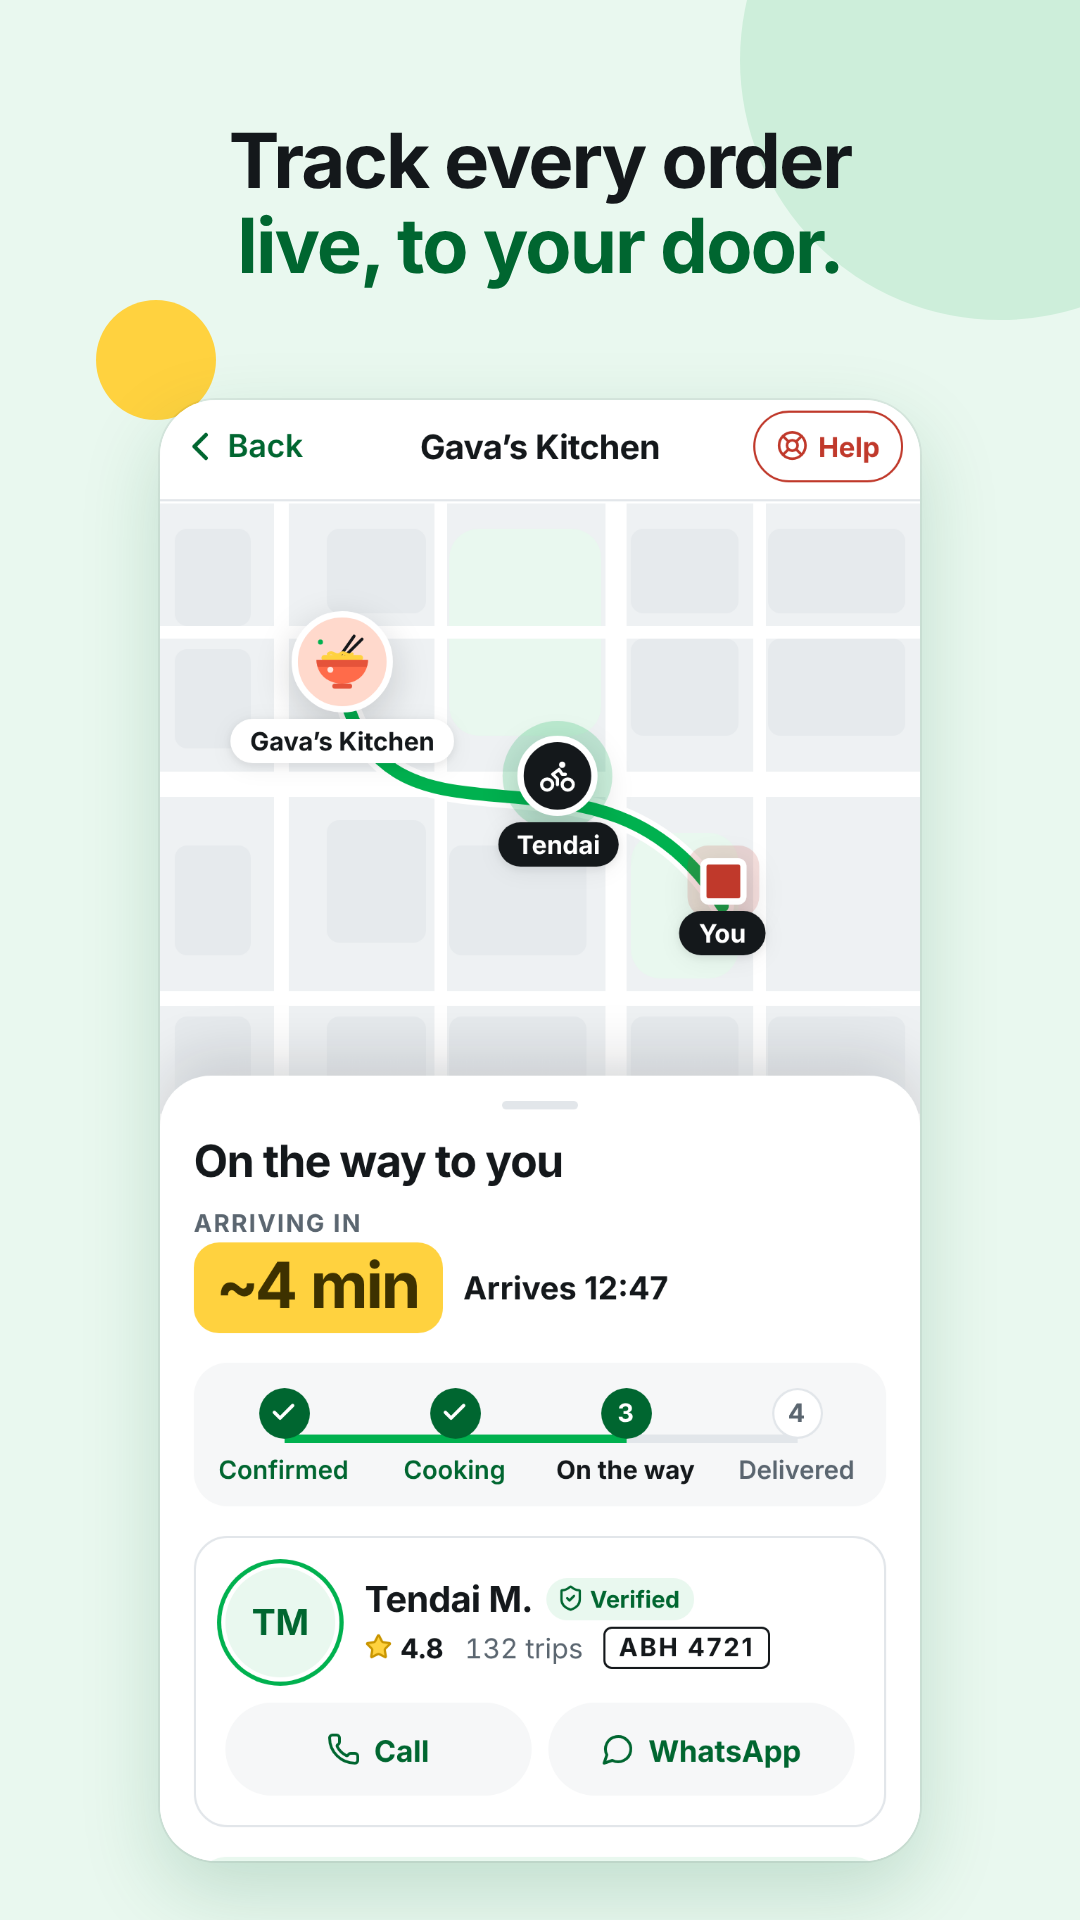
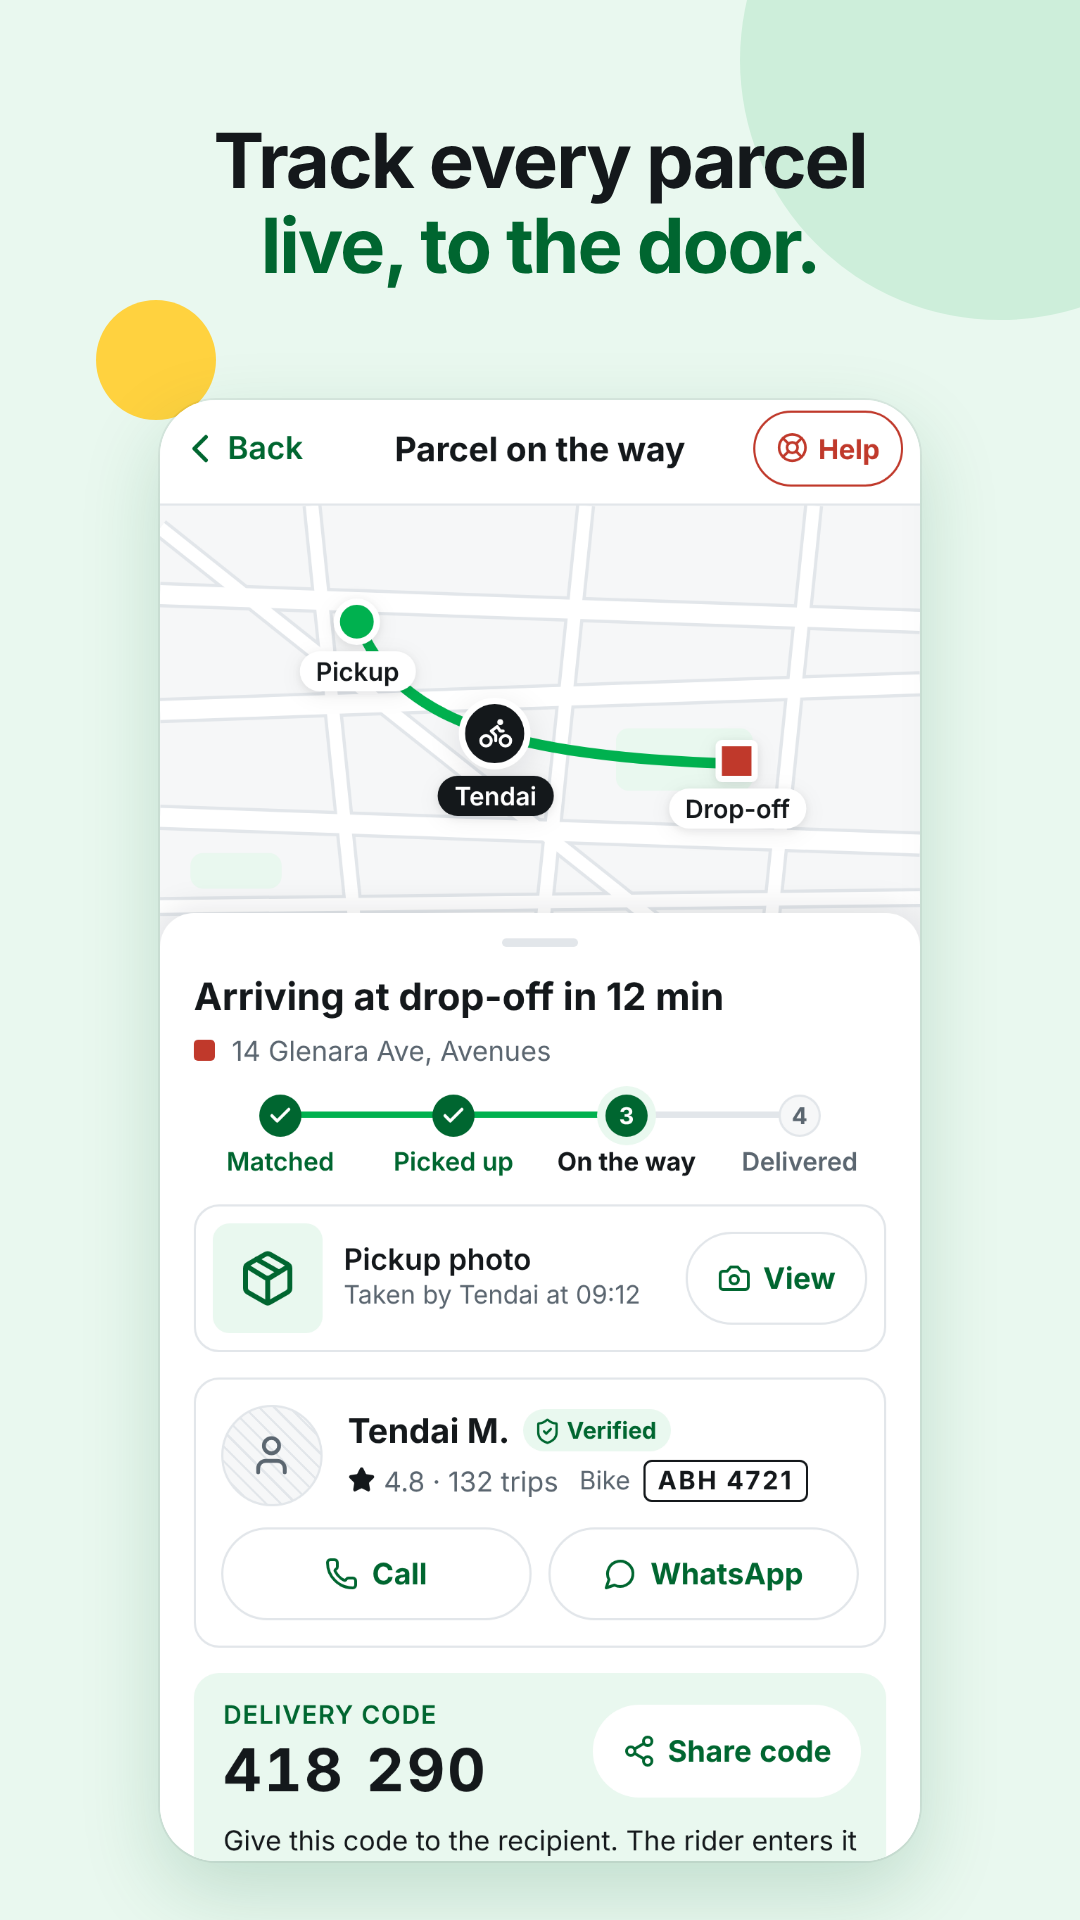
store-assets: shot 3 shows parcel tracking instead of a restaurant order
Parcels are a lead product, so "Track every parcel live, to the door."
now uses After Send v2 state 7 (Picked up, to drop-off): the rider on the
map, the four delivery steps and the 6-digit delivery code. The handoff's
hatched "photo" placeholder is drawn as a package mark. The render script
now scrolls a frame into view before editing it, since After Send renders
frame contents lazily.

Claude-Session: https://claude.ai/code/session_01XdnXGg391LFsh27Z9xqEta

diff --git a/store-assets/google-play/README.md b/store-assets/google-play/README.md
@@ -32,19 +32,20 @@ Regenerate from `../../explorations/store/Play Export Lab.html` (renders every s
 |------|------|---------|------------------------|
 | 1 | `phone-screenshots/01-home.png` | Food, shops and parcels. **One app.** | Home H1 — `calm-mint-v2-2026-10` |
 | 2 | `phone-screenshots/02-order-food.png` | Order from restaurants **in a few taps.** | Menu with cart S5 — `browse-v2` |
-| 3 | `phone-screenshots/03-track-live.png` | Track every order **live, to your door.** | On the way T9 — `order-flow-v2` (v2.1) |
+| 3 | `phone-screenshots/03-track-live.png` | Track every parcel **live, to the door.** | Picked up, to drop-off (state 7) — `after-send-v2` |
 | 4 | `phone-screenshots/04-send-parcel.png` | Send a parcel. **Name your price.** | Step 3 Price — `send-compose-v2` |
 
 1080 × 1920, opaque RGB PNG, 175–620 KB each. Regenerate with
 `node store-assets/google-play/render-shots.mjs` (Playwright + Chromium): it captures each frame at 3×
 from the handoff, crops the status bar, and places it under the caption on the mint (`#E9F8EF`) backdrop.
-Home drops the design-review "NEEDS BACKEND" tag and shows the shipped tile label "Food" (ledger D-65).
+Home drops the design-review "NEEDS BACKEND" tag and shows the shipped tile label "Food" (ledger D-65);
+the parcel-tracking shot shows a package mark where the handoff draws a hatched "photo" placeholder.
 Four shots at 1080 × 1920 keeps large-format promotion eligibility.
 
 Suggested alt text:
 1. LyniaGo Home with Food, Shops, Send and Pharmacy, popular restaurants, and a live order bar.
 2. A restaurant menu with two dishes in the cart and the View cart bar.
-3. Live tracking: the rider on the map, arriving in about 4 minutes, with the order steps.
+3. Live parcel tracking: the rider on the map heading to drop-off, the delivery steps, and the 6-digit delivery code.
 4. Sending a parcel: the customer sets their own price, paid in cash to the rider.
 
 **Store listing → Graphics → 7-inch tablet screenshots**
